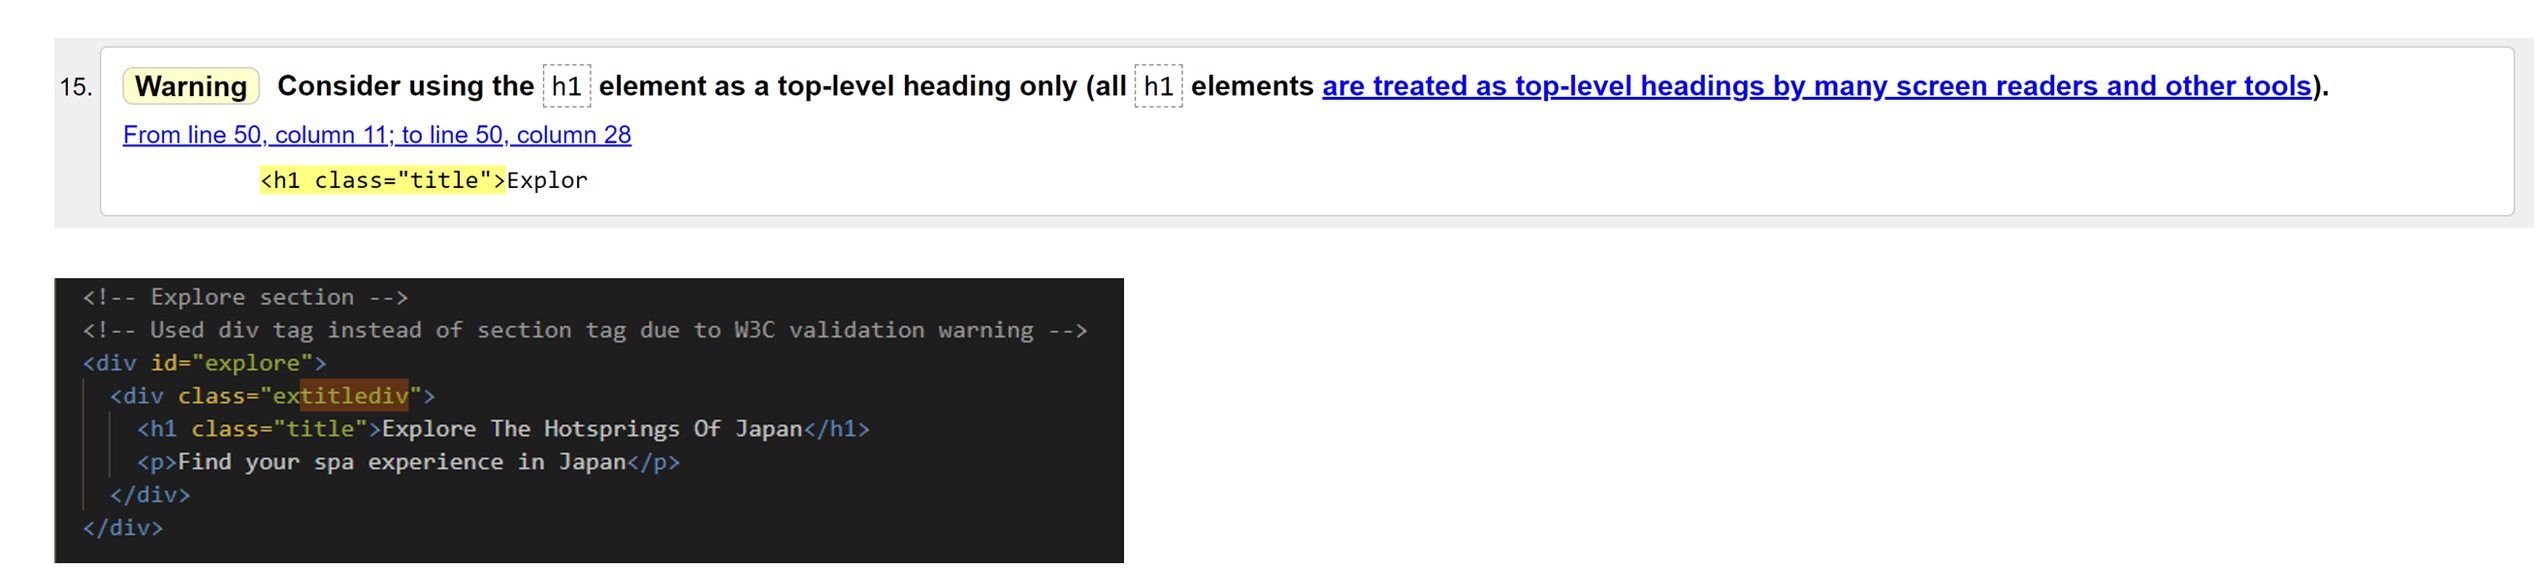
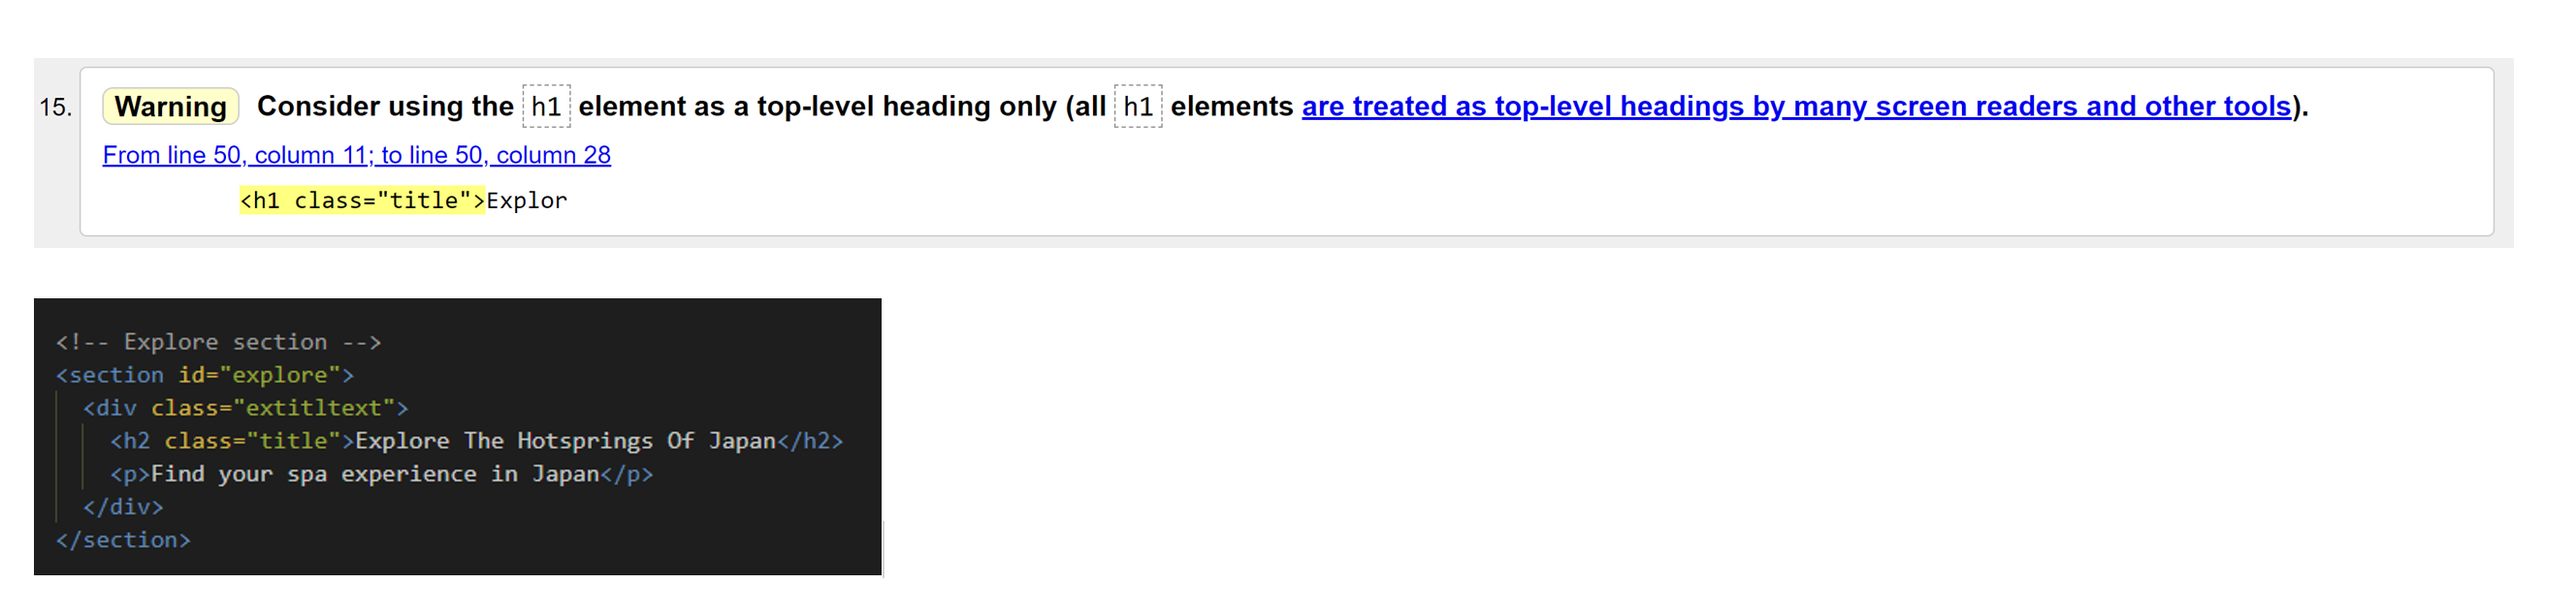
docs: Add text and images for readme document

Changed region(s): [[0.0, 0.4608, 0.4636, 1.0], [0.0, 0.0922, 0.958, 0.3993]]

diff --git a/index.html b/index.html
@@ -44,7 +44,6 @@
   <main>
 
     <!-- Explore section -->
-
     <section id="explore">
       <div class="extitltext">
         <h2 class="title">Explore The Hotsprings Of Japan</h2>

diff --git a/readme/README.md b/readme/README.md
@@ -140,19 +140,28 @@ The performance tag is a bit low due to having a YouTube video and a Google Map 
 
 - Removed slashes as the website had a warning about having a slash on the void element in the header.
 
-![Validator warning 1](../readme/media/bug1.png)
+![Validator bug 1](../readme/media/bug1.png)
 
 - Some of the closing tags weren’t closed with the same tag and some were wrong places. So fixed them.
 
-![Valdiator error1](../readme/media/bug2.png)
+![Valdiator bug 2](../readme/media/bug2.png)
 
 - Fixed duplicated ID
 
-![Validator error2](../readme/media/bug3.png)
+![Validator bug 3](../readme/media/bug3.png)
 
-- I had a warning for having an h1 tag that wasn’t a top-level heading in the explore section of the landing page.<br>Solved the issue by using a div tag instead of a section tag where the id name explores is in the tag.
+- I had a warning for having an h1 tag that wasn’t a top-level heading in the explore section of the landing page.<br>Solved the issue by using a h2 tag instead of an h1 of the place.
 
-![Validator error3](../readme/media/bug4.png)
+![Validator bug 4](../readme/media/bug4.png)
 
 - I was using a section tag only to render a picture as a background and got this issue.<br>
   So I put more content in the destination section.
+
+![Validator bug 5](../readme/media/bug5.png)
+
+**Lighthouse report improvement**<br>
+Analyse the website with Lighthouse and had high scores. However, there were still places where I could improve them.
+
+- I was using pictures where their sizes were too big and that caused the issue of the loading speed of the page to be impacted. So I compressed the images to be smaller size by converting the images to a WEBP format. This decreased the image size. Some of the pictures also used Photoshop to decrease the pixels.
+
+- Used aspect ratio property in CSS to remove the issue that the images didn’t have a correct height.
